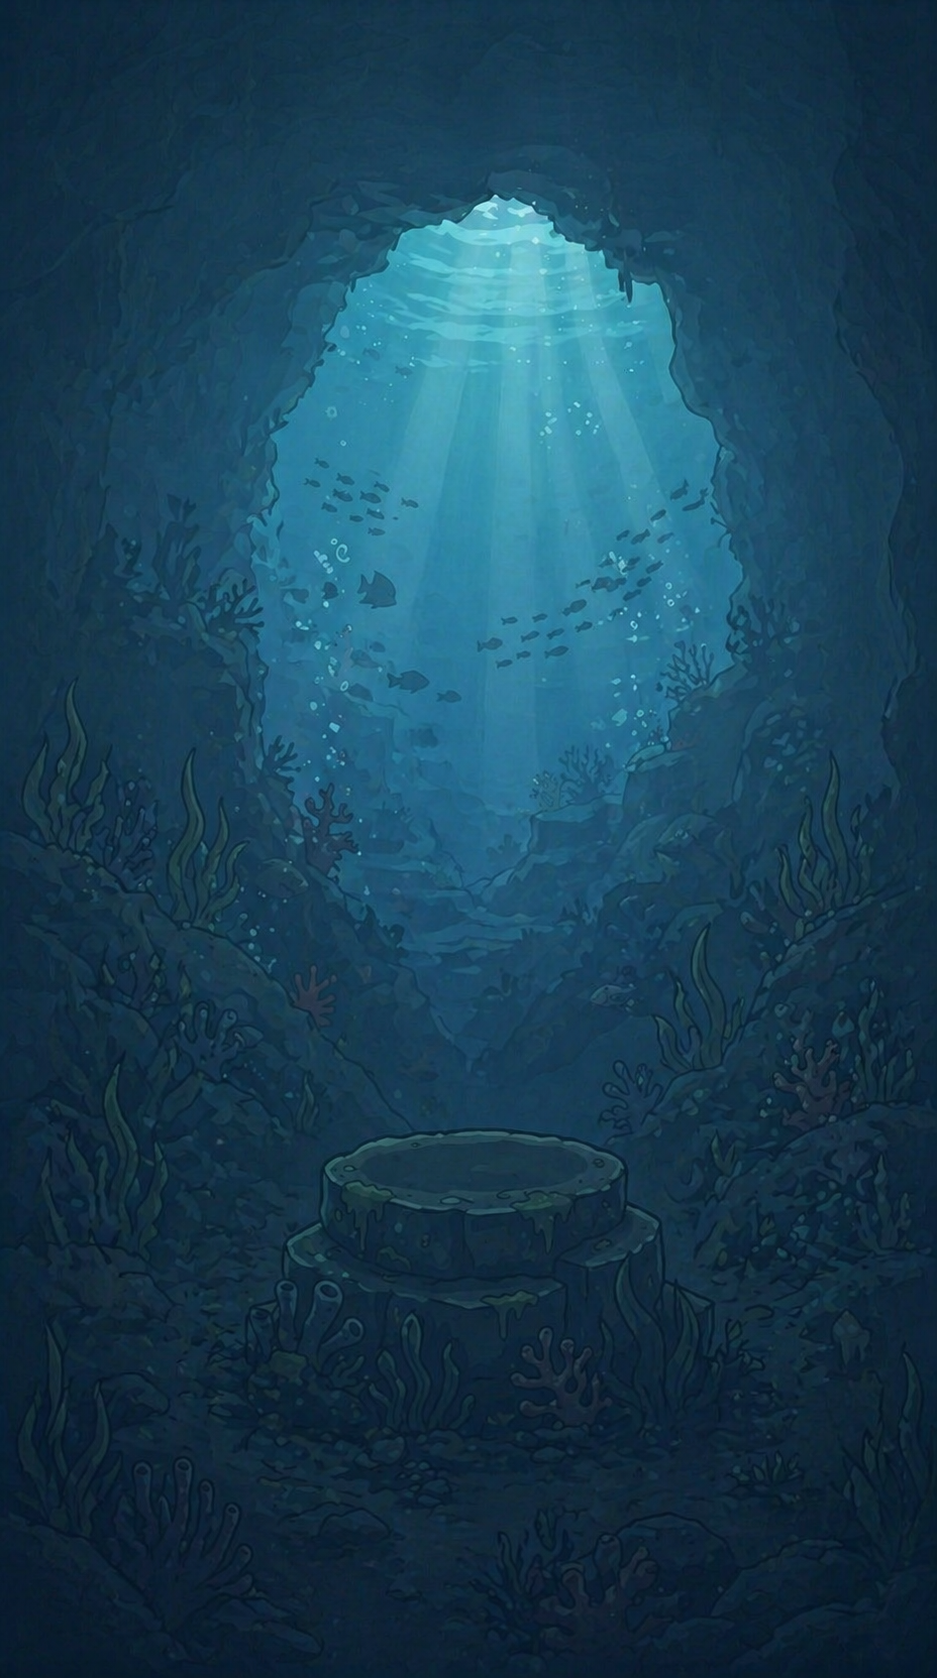
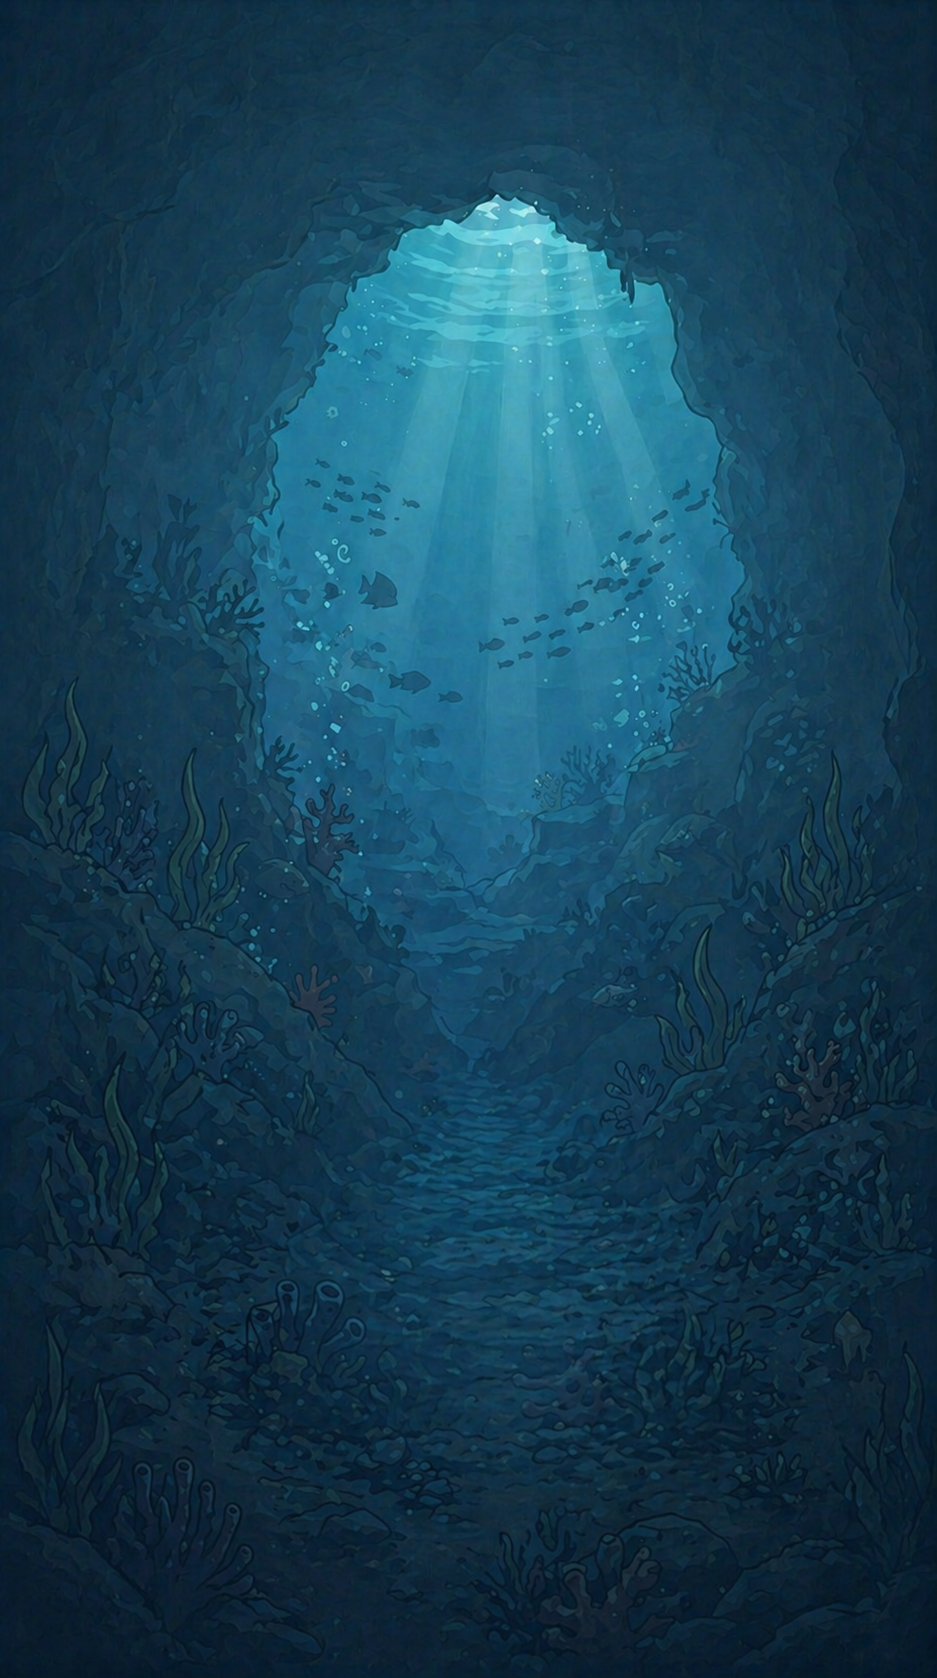
Replace player cat with fixed bottom turret
Swaps the mobile cat sprite for a steampunk turret anchored to the
bottom of the canvas. The turret never flips; spear and tether now
originate from the cannon muzzle position. Aim angle is computed from
the muzzle (not the sprite center) so left/right feel symmetric.

Made-with: Cursor

diff --git a/src/render/RenderFrame.ts b/src/render/RenderFrame.ts
@@ -1,7 +1,8 @@
 import type { GameRenderer } from './GameRenderer';
 import type { RenderFishState, RenderSpearState, RenderState } from './RenderState';
 import { FishType, GamePhase } from '../core/Types';
-import { BAIT_LURE_ICON_PX, CANVAS_HEIGHT, CANVAS_WIDTH } from '../core/Constants';
+import { BAIT_LURE_ICON_PX, CANVAS_HEIGHT, CANVAS_WIDTH, TURRET_SPRITE_H, TURRET_SPRITE_W } from '../core/Constants';
+import { getTurretMuzzleWorld } from '../core/SpearSystem';
 import { AssetIds } from '../shared/AssetIds';
 import { drawBoatScreen } from './boatScreen';
 import { drawHud } from './hud';
@@ -13,11 +14,6 @@ const TREASURE_CINEMATIC_ASPECT: Record<'closed' | 'open', number> = {
   closed: 1.15,
   open: 1.1,
 };
-
-const PLAYER_SPRITE_W = 164;
-const PLAYER_SPRITE_H = 164;
-const GUN_TIP_X = 65;
-const GUN_TIP_Y = 86;
 
 const FISH_IMAGE_IDS: Record<FishType, string> = {
   [FishType.Small]: AssetIds.fishSmall,
@@ -155,18 +151,15 @@ function drawFish(renderer: GameRenderer, fish: RenderFishState): void {
   );
 }
 
-function drawPlayer(renderer: GameRenderer, px: number, py: number, aimAngle: number): void {
-  const drawY = py - PLAYER_SPRITE_H;
-  const facingRight = Math.cos(aimAngle) >= 0;
-  if (facingRight) {
-    renderer.drawImage({ id: AssetIds.playerCat }, px - PLAYER_SPRITE_W / 2, drawY, PLAYER_SPRITE_W, PLAYER_SPRITE_H);
-  } else {
-    renderer.pushTranslate(px + PLAYER_SPRITE_W / 2, drawY);
-    renderer.pushScale(-1, 1, 0, 0);
-    renderer.drawImage({ id: AssetIds.playerCat }, 0, 0, PLAYER_SPRITE_W, PLAYER_SPRITE_H);
-    renderer.pop();
-    renderer.pop();
-  }
+function drawPlayer(renderer: GameRenderer, px: number, py: number): void {
+  const drawY = py - TURRET_SPRITE_H;
+  renderer.drawImage(
+    { id: AssetIds.playerTurret },
+    px - TURRET_SPRITE_W / 2,
+    drawY,
+    TURRET_SPRITE_W,
+    TURRET_SPRITE_H,
+  );
 }
 
 function drawTether(renderer: GameRenderer, fx: number, fy: number, tx2: number, ty2: number): void {
@@ -184,11 +177,10 @@ function drawSpear(
   renderer: GameRenderer,
   playerX: number,
   playerY: number,
-  aimAngle: number,
   spear: RenderSpearState,
 ): void {
-  const right = Math.cos(aimAngle) >= 0;
-  drawTether(renderer, playerX + (right ? GUN_TIP_X : -GUN_TIP_X), playerY - GUN_TIP_Y, spear.x, spear.y);
+  const muzzle = getTurretMuzzleWorld(playerX, playerY);
+  drawTether(renderer, muzzle.x, muzzle.y, spear.x, spear.y);
   if (spear.carryingFishType !== null) {
     const off = 28;
     drawFishSprite(
@@ -432,8 +424,8 @@ export function renderFrame(renderer: GameRenderer, state: RenderState): void {
   if (isFtue) {
     drawFtueHandWorld(renderer, state);
   }
-  for (const spear of state.spears) drawSpear(renderer, state.player.x, state.player.y, state.player.aimAngle, spear);
-  drawPlayer(renderer, state.player.x, state.player.y, state.player.aimAngle);
+  for (const spear of state.spears) drawSpear(renderer, state.player.x, state.player.y, spear);
+  drawPlayer(renderer, state.player.x, state.player.y);
   drawParticles(renderer, state.particles);
   drawFloatingTexts(renderer, state.floatingTexts);
   if (actionZoomed) {

diff --git a/src/render/hud.ts b/src/render/hud.ts
@@ -1,4 +1,10 @@
-import { CANVAS_HEIGHT, CANVAS_WIDTH, PUFFER_TIME_BONUS, WAVE_DURATION_SEC } from '../core/Constants';
+import {
+  CANVAS_HEIGHT,
+  CANVAS_WIDTH,
+  PUFFER_TIME_BONUS,
+  TURRET_SPRITE_H,
+  WAVE_DURATION_SEC,
+} from '../core/Constants';
 import { AssetIds } from '../shared/AssetIds';
 import {
   HUD_BAIT_BUTTON_CX,
@@ -9,8 +15,6 @@ import {
 import type { GameRenderer } from './GameRenderer';
 import type { RenderState } from './RenderState';
 import { C, t, tb, td } from './theme';
-
-const PLAYER_SPRITE_H = 164;
 
 /** Top-left: wave # + clear horizontal progress (fills left→right through the current block). */
 const WAVE_W = 96;
@@ -131,7 +135,7 @@ export function drawHud(renderer: GameRenderer, state: RenderState): void {
     const fontSize = combo >= 10 ? 54 : combo >= 5 ? 40 : 30;
     const boxW = combo >= 10 ? 260 : combo >= 5 ? 210 : 180;
     const cx = state.player.x;
-    const cy = state.player.y - PLAYER_SPRITE_H - 20;
+    const cy = state.player.y - TURRET_SPRITE_H - 20;
 
     if (combo >= 5) renderer.drawEllipseAlpha(color, 0.07 + 0.05 * pulse, cx, cy, boxW * 0.55, fontSize * 0.9);
     if (combo >= 10) renderer.drawEllipseAlpha(color, 0.10 + 0.06 * pulse, cx, cy, boxW * 0.72, fontSize * 1.3);
@@ -144,7 +148,7 @@ export function drawHud(renderer: GameRenderer, state: RenderState): void {
     const alpha = (0.85 + 0.15 * p).toFixed(2);
     const glow = `rgba(80,220,255,${alpha})`;
     const cx = state.player.x;
-    const cy = state.player.y - PLAYER_SPRITE_H - 60;
+    const cy = state.player.y - TURRET_SPRITE_H - 60;
     renderer.drawEllipseAlpha(glow, 0.08 + 0.06 * p, cx, cy, 140, 36);
     renderer.drawText(`+${PUFFER_TIME_BONUS}s TIME`, cx - 130, cy - 22, 260, 44, td(36, glow, 'center'));
   }

diff --git a/src/core/SpearSystem.ts b/src/core/SpearSystem.ts
@@ -1,7 +1,20 @@
 import type { FishState, FishType, PlayerState, SpearState } from './Types';
 import { SpearMode } from './Types';
-import { SPEAR_SPEED } from './Constants';
+import {
+  SPEAR_SPEED,
+  TURRET_MUZZLE_U,
+  TURRET_MUZZLE_V,
+  TURRET_SPRITE_H,
+  TURRET_SPRITE_W,
+} from './Constants';
 import { getFishHitbox } from './FishSystem';
+
+/** World position of the cannon muzzle (turret is not mirrored; aim is ignored for anchor). */
+export function getTurretMuzzleWorld(playerX: number, playerY: number): { x: number; y: number } {
+  const x = playerX - TURRET_SPRITE_W / 2 + TURRET_MUZZLE_U * TURRET_SPRITE_W;
+  const y = playerY - TURRET_SPRITE_H + TURRET_MUZZLE_V * TURRET_SPRITE_H;
+  return { x, y };
+}
 
 export interface DeliveredCatch {
   spearId: number;
@@ -17,10 +30,11 @@ export function fireSpear(
   aimAngle: number,
   maxDistance: number,
 ): SpearState {
+  const muzzle = getTurretMuzzleWorld(player.x, player.y);
   return {
     id,
-    x: player.x + Math.cos(aimAngle) * 26,
-    y: player.y + Math.sin(aimAngle) * 26,
+    x: muzzle.x,
+    y: muzzle.y,
     vx: Math.cos(aimAngle) * SPEAR_SPEED,
     vy: Math.sin(aimAngle) * SPEAR_SPEED,
     fireAngle: aimAngle,
@@ -72,8 +86,7 @@ export function updateSpears(
     }
 
     if (spear.mode === SpearMode.Returning) {
-      const targetX = player.x + Math.cos(player.aimAngle) * 12;
-      const targetY = player.y + Math.sin(player.aimAngle) * 12;
+      const { x: targetX, y: targetY } = getTurretMuzzleWorld(player.x, player.y);
       const dx = targetX - spear.x;
       const dy = targetY - spear.y;
       const dist = Math.hypot(dx, dy);

diff --git a/src/core/GameLogic.ts b/src/core/GameLogic.ts
@@ -90,6 +90,7 @@ import {
   attachCatchToSpear,
   detectSpearFishCollisions,
   fireSpear,
+  getTurretMuzzleWorld,
   removeResolvedSpears,
   returnSpearWithoutCatch,
   updateSpears,
@@ -106,11 +107,14 @@ import {
 
 const FTUE_SHOWCASE_FISH_SCALE = 1.58;
 
-/** Cluster near the cat; [0] = hand + tap target. */
+/**
+ * Cluster above the turret; [0] = hand + tap target.
+ * Y is fixed in screen space (layout tuned when player stood on the pedestal; turret is bottom-fixed).
+ */
 const FTUE_SHOWCASE_FISH: ReadonlyArray<{ x: number; y: number; type: FishType }> = [
-  { x: PLAYER_X - 96, y: PLAYER_Y - 248, type: FishType.Small },
-  { x: PLAYER_X + 108, y: PLAYER_Y - 246, type: FishType.Small },
-  { x: PLAYER_X - 4, y: PLAYER_Y - 318, type: FishType.Medium },
+  { x: PLAYER_X - 96, y: 362, type: FishType.Small },
+  { x: PLAYER_X + 108, y: 364, type: FishType.Small },
+  { x: PLAYER_X - 4, y: 292, type: FishType.Medium },
 ];
 
 /**
@@ -513,8 +517,9 @@ function updateAction(state: FullGameState, dt: number, commands: GameInputComma
       state.player.y,
       getActionViewZoomForSession(state.sessionTime, state.ftueActive),
     );
-    const dx = w.x - state.player.x;
-    const dy = w.y - state.player.y;
+    const muzzle = getTurretMuzzleWorld(state.player.x, state.player.y);
+    const dx = w.x - muzzle.x;
+    const dy = w.y - muzzle.y;
     if (dx !== 0 || dy !== 0) {
       state.player.aimAngle = Math.atan2(dy, dx);
     }

diff --git a/src/core/Constants.ts b/src/core/Constants.ts
@@ -4,11 +4,18 @@ export const CANVAS_WIDTH = 480;
 export const CANVAS_HEIGHT = 854;
 export const GAME_ASPECT_RATIO = CANVAS_WIDTH / CANVAS_HEIGHT;
 
-// Player — positioned to stand on the stone pedestal in the underwater background
+// Player — turret fixed to the bottom of the playfield; (PLAYER_X, PLAYER_Y) = bottom center of the sprite
 export const PLAYER_X = CANVAS_WIDTH / 2;
-export const PLAYER_Y = CANVAS_HEIGHT * 0.714; // feet land on top of the pedestal (~73% height)
+export const PLAYER_Y = CANVAS_HEIGHT;
 export const PLAYER_WIDTH = 34;
 export const PLAYER_HEIGHT = 48;
+
+/** Draw size for `playerTurret` art (source PNG is 500x500) */
+export const TURRET_SPRITE_W = 240;
+export const TURRET_SPRITE_H = 240;
+/** Muzzle in sprite space: U = horizontal from left edge, V = vertical from top (0 = top). */
+export const TURRET_MUZZLE_U = 0.64;
+export const TURRET_MUZZLE_V = 0.18;
 
 // Spear
 export const SPEAR_SPEED = 920;

diff --git a/src/core/ActionViewTransform.ts b/src/core/ActionViewTransform.ts
@@ -1,3 +1,5 @@
+import { TURRET_SPRITE_H } from './Constants';
+
 /**
  * In Action, the world is drawn with a uniform zoom around a focus (usually near the player).
  * Pointer events arrive in unscaled canvas space; this maps them back to world coords for aim.
@@ -8,7 +10,8 @@ export const FTUE_VIEW_ZOOM = 1.28;
 export const ACTION_ZOOM_EASE_IN_SEC = 0.75;
 
 export function actionViewFocus(playerX: number, playerY: number): { x: number; y: number } {
-  return { x: playerX, y: playerY - 102 };
+  // Focus through the turret (mid-upper) so zoom keeps aim and fish readable
+  return { x: playerX, y: playerY - TURRET_SPRITE_H * 0.45 };
 }
 
 /**

diff --git a/src/platform/AssetManifest.ts b/src/platform/AssetManifest.ts
@@ -16,6 +16,7 @@ export const BrowserAssetManifest = {
     [AssetIds.bubble]: 'assets/bubble-1.png',
     [AssetIds.underwaterBg]: 'assets/underwater-bg.png',
     [AssetIds.playerCat]: 'assets/player-cat.png',
+    [AssetIds.playerTurret]: 'assets/player-turret.png',
     [AssetIds.boatBg]: 'assets/boat-bg.png',
     [AssetIds.boatSprite]: 'assets/boat-sprite.png',
     [AssetIds.upSpeargun1]: 'assets/up-speargun-1.png',

diff --git a/src/shared/AssetIds.ts b/src/shared/AssetIds.ts
@@ -21,6 +21,8 @@ export const AssetIds = {
   bubble: 'bubble',
   underwaterBg: 'underwaterBg',
   playerCat: 'playerCat',
+  /** Bottom-fixed turret; line/spear emits from the cannon muzzle in code */
+  playerTurret: 'playerTurret',
   boatBg: 'boatBg',
   boatSprite: 'boatSprite',
 
